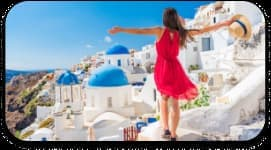
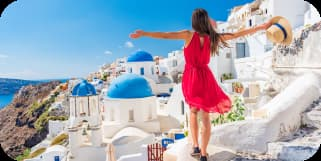
new section

diff --git a/style.css b/style.css
@@ -25,7 +25,8 @@ header {
 .card:nth-of-type(3),
 .card:nth-of-type(4),
 .hero__subtitle,
-.hero__text {
+.hero__text,
+.advanteges__subtitle {
   display: none;
 }
 
@@ -215,15 +216,132 @@ header {
   height: 100.967px;
   z-index: -1;
 }
+.advantages {
+  padding-top: 83px;
+}
+.advantages__container {
+  max-width: 388px;
+  margin: 0 auto;
+  display: flex;
+  flex-direction: column;
+  gap: 100px;
+}
+.advantages__wrapper-info {
+  display: flex;
+  flex-direction: column;
+  gap: 65px;
+}
+.advanteges__title {
+  position: relative;
+  color: var(--category-title, #14183e);
+  text-align: center;
+  font-family: Volkhov;
+  font-size: 40px;
+  font-weight: 700;
+  .break-word {
+    display: block;
+  }
+}
+.advanteges__title::before{
+  
+  content: url("./img/advanteges-pluses.svg");
+  position: absolute;
+  top: -175px;
+  left: -6px;
+}
+.advanteges__list {
+  display: flex;
+  flex-direction: column;
+  gap: 48px;
+}
+.advanteges__item {
+  display: flex;
+  gap: 21px;
+  .advanteges_wrapper-text {
+    display: flex;
+    flex-direction: column;
+    gap: 4px;
+    h3 {
+      color: var(--TEXT-CLR, #5e6282);
+      font-family: Poppins;
+      font-size: 16px;
+      font-weight: 700;
+    }
+    p {
+      color: var(--TEXT-CLR, #5e6282);
+      font-family: Poppins;
+      font-size: 16px;
+      font-weight: 400;
+    }
+  }
+}
+
+.advantages__wrapper-card {
+  display: flex;
+  flex-direction: column;
+  gap: 15px;
+  max-width: 325px;
+  padding: 18px 20px 28px 21px;
+  border-radius: 26px;
+  background: var(--white, #fff);
+  box-shadow: 0px 100px 80px 0px rgba(0, 0, 0, 0.02),
+    0px 64.815px 46.852px 0px rgba(0, 0, 0, 0.02),
+    0px 38.519px 25.481px 0px rgba(0, 0, 0, 0.01),
+    0px 20px 13px 0px rgba(0, 0, 0, 0.01),
+    0px 8.148px 6.519px 0px rgba(0, 0, 0, 0.01),
+    0px 1.852px 3.148px 0px rgba(0, 0, 0, 0);
+}
+.advantages__wrapper-women-beach {
+  border-radius: 24px;
+  border: 1px solid #000;
+  box-shadow: 0px 4px 4px 0px rgba(0, 0, 0, 0.25);
+}
+.advantages__card-title {
+  color: var(--black, #080809);
+  font-family: Poppins;
+  font-size: 18px;
+  font-weight: 500;
+}
+.advantages__card-wrapper-info:nth-of-type(1) p {
+  color: var(--text-2, #84829a);
+  font-family: Poppins;
+  font-size: 18px;
+  font-style: normal;
+  font-weight: 500;
+  span{
+    padding: 0 0 0px   15px;
+  }
+}
+.advantages__card-wrapper-info:nth-of-type(2) {
+  display: flex;
+  gap: 10px;
+}
+.advantages__card-wrapper-info:nth-of-type(3) {
+  display: flex;
+  gap: 73px;
+  div {
+    width: 100%;
+    display: flex;
+    gap: 11px;
+    p {
+      color: var(--text-2, #84829a);
+      font-family: Poppins;
+      font-size: 16px;;
+      font-weight: 500;;
+    }
+  }
+}
 
 footer {
+  margin-top: 60px;
+  padding-top: 13px;
   background-color: var(--header-bg);
 }
 .footer__container {
   max-width: 287px;
   margin: 0 auto;
 }
-.footer__wrapper-title{
+.footer__wrapper-title {
   display: flex;
   flex-direction: column;
   gap: 19px;
@@ -238,16 +356,16 @@ footer {
   font-family: Poppins;
   font-size: 13px;
 }
-.footer__list{
+.footer__list {
   display: flex;
   flex-direction: column;
   gap: 34px;
   padding-top: 58px;
 }
-.footer__list-item{
+.footer__list-item {
   display: flex;
   flex-direction: column;
-    gap: 34px;
+  gap: 34px;
 }
 .footer__list-item > h3 {
   color: var(--black, #080809);
@@ -266,32 +384,36 @@ footer {
   }
 }
 
-.footer__item-link + a:hover{
-  text-decoration: solid;
+.footer__item-link a:hover {
+  text-decoration: underline;
 }
 .footer__wrapper-discover > p {
   color: var(--category-subtitle, #5e6282);
   font-family: Poppins;
   font-size: 20px;
 }
-.footer__wrapper-social + p{
-  color: var(--TEXT-CLR, #5E6282);
-font-family: Poppins;
-font-size: 14px;
-font-weight: 500;
-padding-top: 69px;
+.footer__wrapper-social + p {
+  color: var(--TEXT-CLR, #5e6282);
+  font-family: Poppins;
+  font-size: 14px;
+  font-weight: 500;
+  padding-top: 69px;
 }
-.footer__wrapper-social{
+.footer__wrapper-social {
   display: flex;
   flex-direction: column;
   gap: 41px;
   padding-top: 58px;
 }
-.footer-wrapper-social-link{
+.footer-wrapper-social-link {
   display: flex;
   gap: 20px;
 }
-.footer__wrapper-discover{
+.scale-social-link:hover {
+  transform: scale(2);
+  transition: transform 0.5s;
+}
+.footer__wrapper-discover {
   display: flex;
   flex-direction: column;
   gap: 16px;

diff --git a/index.html b/index.html
@@ -110,12 +110,12 @@
 
 <!-- 
 ПРОБЛЕМА З ФОТКОЮ -->
-      <!-- <section class="advantages">
+      <section class="advantages">
         <div class="advantages__container">
           <div class="advantages__wrapper-info">
             <h3 class="advanteges__subtitle">Easy and Fast</h3>
             <h1 class="advanteges__title">
-              Book your next trip in 3 easy steps
+              Book your next <span class="break-word">trip</span> in 3 easy steps
             </h1>
             <ul class="advanteges__list">
               <li class="advanteges__item">
@@ -152,11 +152,11 @@
           </div>
           <div class="advantages__wrapper-card">
             <picture>
-              <source srcset="" media="(min-width: 414px)" type="type/avif" />
-              <source srcset="" media="(min-width: 414px)" type="type/avif" />
-              <source srcset="" media="(min-width: 414px)" type="type/webp" />
-              <source srcset="" media="(min-width: 414px)" type="type/webp" />
-              <img src="./img/women-beach/women-beach.jpg" alt="" />
+              <source srcset="./img/women-beach/women-beach.avif" media="(min-width: 414px)" type="type/avif" />
+              <source srcset="./img/women-beach/" media="()" type="type/avif" />
+              <source srcset="./img/women-beach/women-beach.webp" media="(min-width: 414px)" type="type/webp" />
+              <source srcset="./img/women-beach/" media="()" type="type/webp" />
+              <img class="advantages__wrapper-women-beach" src="./img/women-beach/women-beach.jpg" alt="" />
             </picture>
             <h3 class="advantages__card-title">Trip To Greece</h3>
             <div class="advantages__card-wrapper-info">
@@ -168,13 +168,16 @@
               <img src="./img/send.svg" alt="" />
             </div>
             <div class="advantages__card-wrapper-info">
-              <img src="./img/building.svg" alt="" />
-              <p>24 people going</p>
+              <div>
+                <img src="./img/building.svg" alt="" />
+                <p>24 people going</p>
+              </div>
+              
               <img src="./img/heart.svg" alt="" />
             </div>
           </div>
         </div>
-      </section> -->
+      </section>
 
 
 
@@ -232,10 +235,10 @@
            </ul>
           <div class="footer__wrapper-social">
             <div class="footer-wrapper-social-link">
-              <img src="./img/facebook.svg" alt="" />
-              <img src="./img/instagram.svg" alt="" />
-              <img src="./img/twitter.svg" alt="" />
-              <img src="./img/youtube.svg" alt="" />
+              <img class="scale-social-link" src="./img/facebook.svg" alt="" />
+              <img class="scale-social-link" src="./img/instagram.svg" alt="" />
+              <img class="scale-social-link" src="./img/twitter.svg" alt="" />
+              <img class="scale-social-link" src="./img/youtube.svg" alt="" />
             </div>
             <div class="footer__wrapper-discover">
               <p>Discover our app</p>
